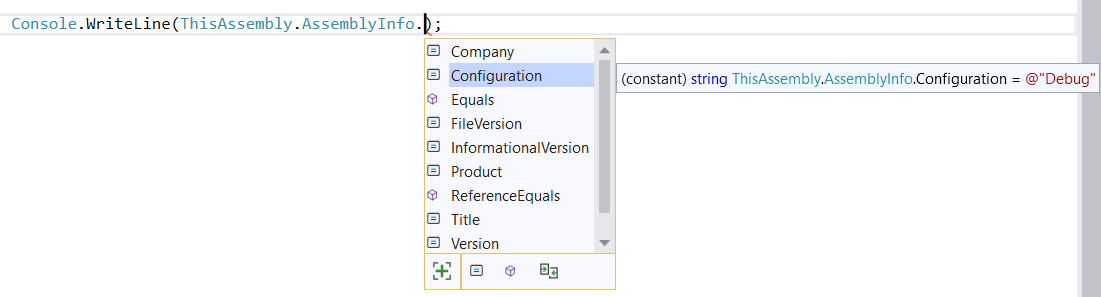
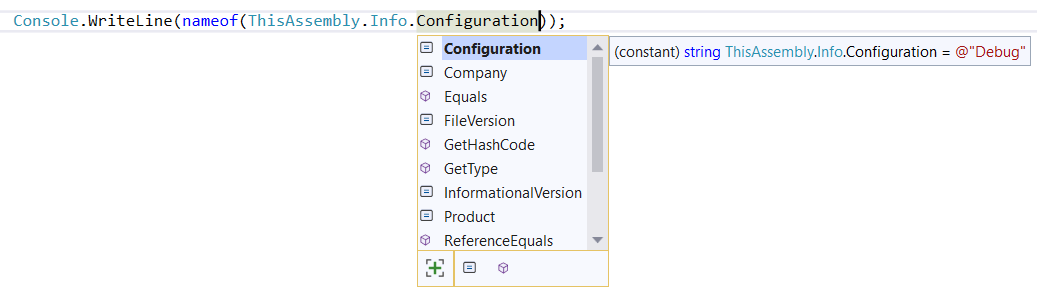
Fix README.md for renamed Info class, update screenshot

Changed region(s): [[0.0, 0.0, 1.0, 1.0], [0.3703, 0.7905, 0.5863, 1.0]]

diff --git a/README.md b/README.md
@@ -33,7 +33,7 @@ all the other packages for convenience.
 [![Version](https://img.shields.io/nuget/v/ThisAssembly.AssemblyInfo.svg?color=royalblue)](https://www.nuget.org/packages/ThisAssembly.AssemblyInfo)
 [![Downloads](https://img.shields.io/nuget/dt/ThisAssembly.AssemblyInfo.svg?color=green)](https://www.nuget.org/packages/ThisAssembly.AssemblyInfo)
 
-This package generates a static `ThisAssembly.AssemblyInfo` class with public 
+This package generates a static `ThisAssembly.Info` class with public 
 constants exposing the following attribute values generated by default for SDK style projects:
 
 * AssemblyConfigurationAttribute
@@ -46,7 +46,7 @@ constants exposing the following attribute values generated by default for SDK s
 * AssemblyFileVersionAttribute
 
 If your project includes these attributes by other means, they will still be emitted properly 
-on the `ThisAssembly.AssemblyInfo`.
+on the `ThisAssembly.Info` class.
 
 ![](img/ThisAssembly.AssemblyInfo.png)
 
